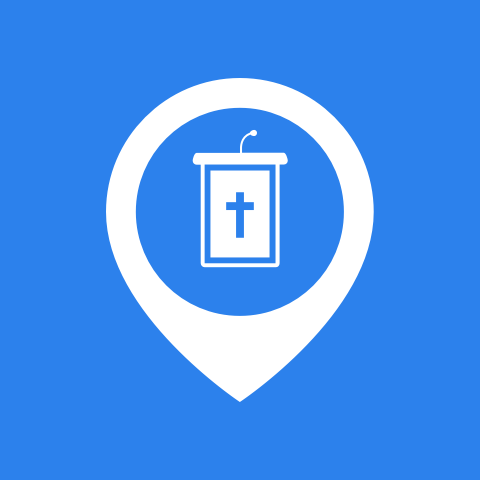
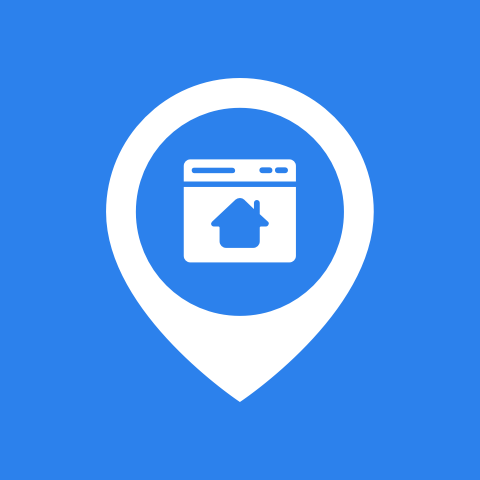
Ready to go

Changed region(s): [[0.375, 0.25, 0.625, 0.5625]]

diff --git a/index.html b/index.html
@@ -1,12 +1,54 @@
 ---
-title: A Free Tool For Managing Church Services
-description: Organize your weekly church services with this weekly tool.
+title: Great websites for regular churches
+description: Free custom websites designed for churches with less than 200 regular attendees.
+features:
+  - feature: Designed to turn website visitors into church guests
+    details: Everything about my themes and designs is intended to get people to visit your church.  Your site won't be just a blog or a business website with a church page tagged on - it will designed from from the ground up to get people in your church.
+  - feature: Unbelieveably easy sermon management
+    details: My themes use Airtable for sermon management, your sound guy will love you and you'll get more of your sermons online.
+  - feature: Google Calendar Integration and Special Event Pages
+    details: Use a Google Calendar to manage your church's public facing calendar, but also have the option of creating awesome event pages for special events.
+  - feature: Ministry pages
+    details: My sites have pages specifically designed to be a home base for your ministries (i.e. youth groups, care ministries, etc.) complete with ministry calendars and photo galleries.
+  - feature: Everything else a church website needs
+    details: Special page templates for church leadership, statement of faith, pastor's blog, and more.
+  - feature: Unhackable and Easy To Update
+    details: Unlike 99% of church websites, the sites I make aren't on Wordpress and were designed to load fast and be super secure.
+pricing_table:
+  - name: Month To Month
+    color: "#3877E0"
+    features:
+      - text: $200 Setup Fee
+        highlight: true
+      - text: $20 Per Month
+        highlight: True
+      - text: Free Domain Name
+        highlight: false
+      - text: Hosting Included
+        highlight: false
+    call_to_action:
+      link: /website-started/
+      text: Get started
+  - name: Better Value
+    color: "#E12844"
+    features:
+      - text: $700 Up Front
+        highlight: true
+      - text: $0 Per Month
+        highlight: True
+      - text: Everything covered for 3 years
+        highlight: false
+      - text: Domain & Hosting
+        highlight: false
+    call_to_action:
+      link: /website-started/
+      text: Get started
 ---
 <section class="hero">
 	<div class="text-container">
-		<h1 class="editable"><strong>Organize Your Church Services</strong></h1>
-		<p class="subtext editable">Plan services, songs, sermons, announcemnents and more.</p>
-		<div class="cta button alt"><a href="/signup/">Get Your Free Tool</a></div>
+		<h1 class="editable"><strong>The Best Website Solution <br><em>For Most Churches</em></strong></h1>
+		<p class="subtext editable">Custom websites designed from the ground up <br>for the needs of churches with less than 200 regular attendees.</p>
+		<div class="cta button alt"><a href="/signup/">Get Yours Today</a></div>
 		<div>
 			<!-- <img src="/images/main_image.png" alt="Screenshot" class="editable" /> -->
 			<iframe width="560" height="315" src="https://www.youtube.com/embed/0rpoDfKNWcQ" frameborder="0" allowfullscreen></iframe>
@@ -15,71 +57,95 @@ description: Organize your weekly church services with this weekly tool.
 </section>
 
 <div class="content">
-	<section>
-		<div class="container flex">
-			<div class="text editable">
-				<h2>Built for <strong>traditional</strong> churches.</h2>
-				<p>If you are the kind of church with fancy lights, a large band and smoke machines - this isn't for you.  This is a tool for churches that still doing traditional services: ie. hymns, a human doing announcements, a choir, etc. </p>
-			</div>
-			<div class="image">
-				<img src="/images/bbc.jpg" alt="Screenshot" class="editable" />
-			</div>
-		</div>
-	</section>
+<div id="themes">
+	<h2>Three Great Themes</h2>
+<p class="subtext">I've designed each of these themes from scratch to be awesome for churches and <strong>I can customize them however you like</strong> as part of the setup process.</p>
 
-	<section>
-		<div class="container flex">
-			<div class="text editable">
-				<h2><strong>Organize </strong>songs, hymns, announcements and sermons.</h2>
-				<p>Keep track of the essential elements of upcoming and past services using this easy to use table.  Easily access past specials, track which hymns you sing how often, etc..  <strong>Collaborate with staff, volunteers and musicians.</strong></p>
-			</div>
-			<div class="image">
-				<img src="/images/hymns.png" alt="Screenshot" class="editable" />
-			</div>
-		</div>
-	</section>
+  <section style="padding-top: 50px;">
+    <div class="container flex">
+      <div class="text editable">
+        <h2><strong>Colorado</strong></h2>
+        <p>This theme is fantastic for smaller churches and church plants. It hides any time related content (blog posts, sermons, etc.) on the home page and only shows them when they are fresh or relevant.</p>
+      </div>
+      <div class="image">
+        <img src="/images/colorado.png" alt="Screenshot" class="screenshot editable" />
+      </div>
+    </div>
+  </section>
+  <section>
+    <div class="container flex">
+      <div class="text editable">
+        <h2><strong>California</strong></h2>
+        <p>This theme is desinged to put the church life of a lively church on display for potential visitors.  It includes a current sermon series widget and featured ministries on the home page.</p>
+      </div>
+      <div class="image">
+        <img src="/images/california.png" alt="Screenshot" class="screenshot editable" />
+      </div>
+    </div>
+  </section>
+  <section style="padding-bottom: 50px;">
+    <div class="container flex">
+      <div class="text editable">
+        <h2><strong>New England</strong></h2>
+        <p>This theme is an all around work horse that works great with a very traditional church.  It features latest blog posts, sermons and upcoming events on the home page.</p>
+      </div>
+      <div class="image">
+        <img src="/images/new-england.png" alt="Screenshot" class="screenshot editable" />
+      </div>
+    </div>
+  </section>
+  </div><!--/#themes-->
+	<section id="features">
+		<h2>All of the Features You Need For Your Church</h2>
+		<p class="subtext">I've worked for years on creating the best website solution for small churches.  Here are some of the features:</p>
+{% if page.features %}
+  <dl class="faq">
+    {% for item in page.features %}
+      <div>
+        <dt>{{ item.feature }}</dt>
+        <dd>{{ item.details }}</dd>
+      </div>
+    {% endfor %}
+  </dl>
+{% endif %}
+	</section><!--/features-->
+	<section id="pricing">
+		<h2>Super easy.  Super Affordable.</h2>
+<p class="subtext">Check out my prices below. Designed to be affordable for small churches.</p>
+<div class="plans">
+	{% for plan in page.pricing_table %}
+		<ul class="plan">
+			<li style="background: {{ plan.color }}">
+				<h3>{{ plan.name }}</h3>
+			</li>
+			{% for feature in plan.features %}
+				<li {% if feature.highlight %} class="highlighted"{% endif %}>{{ feature.text }}</li>
+			{% endfor %}
 
-	<section>
-		<div class="container flex">
-			<div class="text editable">
-				<h2>Quickly generate <strong>printed</strong> orders of service.</h2>
-				<p>We give you an html file that you can save to your desktop, simply click it to open it in a browser, choose your service from a list, and click print.  <strong>Save time every week.</strong></p>
-			</div>
-			<div class="image">
-				<img src="/images/oos.png" alt="Screenshot" class="screenshot editable" />
-			</div>
-		</div>
-	</section>
-	<section>
-		<div class="container flex">
-			<div class="text editable">
-				<h2><strong>Easy</strong> access on any computer, tablet or smartphone.</h2>
-				<p>This tool is built on top of <a href="https://airtable.com/invite/r/MW9nJ7HK">Airtable</a>.  So you get access via a world class interface on any web browser and awesome apps for your phone.</p>
-			</div>
-			<div class="image">
-				<img src="/images/devices.png" alt="Screenshot" class="screenshot editable" />
-			</div>
-		</div>
-	</section>
+			{% if plan.call_to_action %}
+				<li class="pricing-cta"><div class="button"><a style="background: {{ plan.color }}" href="{{ plan.call_to_action.link }}">{{ plan.call_to_action.text }} &rarr;</a></div></li>
+			{% endif %}
+		</ul>
+	{% endfor %}
+</div>
+	</section><!--/#pricing-->
 
 	<section class="testimonial">
 		<div class="container flex">
 			<div class="testimonial-block">
-				<div class="square-image editable"><img src="/images/ryan.jpg" alt="Ryan Hayden"></div>
+				<div class="square-image editable"><img src="/images/bryan.png" alt="Bryan Ries"></div>
 				<blockquote>
-					<p class="editable">I built this tool with the church where I serve as pastor in mind. I was sick of thumbing though a hymn book, guessing how long it's been since we sung that song.  I wanted my Assistant Pastor, pianists, and musicians to be on the same page.
-					<br>
-					I sincerely hope that it is a blessing to your church.
+					<p class="editable">"When I was having issues with my website and needed help and a redesign, Ryan Hayden provided exactly the help I needed....Ryan goes above and beyond to help you know how to keep the site updated on your own. I highly recommend his services."
 					</p>
 					
-					<p class="editable author">Ryan Hayden - Pastor, Bible Baptist Church of Mattoon, IL.</p>
+					<p class="editable author">Bryan Ries - Missionary, Host of the Ministry Connection Podcast.</p>
 				</blockquote>
 			</div>
 		</div>
 	</section>
 
 	<section class="bottom-cta">
-		<h2 class="editable"><strong>Get a better grip</strong><br> on your church services today</h2>
-		<div class="button alt"><a href="/signup/" >Get Your Free Tool</a></div>
+		<h2 class="editable"><strong>You are out of excuses</strong><br> and <em>finally be proud</em> of your church website.</h2>
+		<div class="button alt"><a href="/signup/" >Sign Up Today</a></div>
 	</section>
 </div>

diff --git a/faq.html b/faq.html
@@ -5,16 +5,16 @@ description: Everything you need to know about the simple church planner.
 faq:
   - question: Who is making this?
     answer: My name is Ryan Hayden, I'm a pastor who makes extra money <a href="http://simplechurchtools.com">making websites and custom programs for pastors.</a>
-  - question: Is it really free?
-    answer: Yep. All I ask for is an email address so I can send you occasional information about church websites and other tools. 
-  - question: How will I get it?
-    answer: When you click the <a href="{{site.url}}/signup/index.html">signup button</a>, you'll have to enter your name and email, then I'll send setup information to your email.
-  - question: What are the tech requirements?
-    answer: The program is actually two parts, an <a href="https://airtable.com/invite/r/MW9nJ7HK">Airtable</a> base (which will run in any modern browser and in iOS and Android apps) and a webpage (for printing orders of service) which will work best in Google Chrome.
-  - question: Questions?
-    answer: Contact me for any further questions at <a href="mailto:pastorryanhayden@gmail.com">pastorryanhayden@gmail.com</a>.
-  - question: What if I need it customized or I want some other feature?
-    answer: The standard configuration will work for a lot of churches, but <strong>if you want something different I can tweak it for an hourly fee of $50 with a one hour minumum</strong>.
+  - question: How does billing work?
+    answer: I will send you an invoice from Freshbooks by email.  In the invoice you can setup recurring and automatic billing.  <strong>Invoices must be paid using a credit or debit card. No checks.</strong> 
+  - question: How long does it take?
+    answer: When you sign up, I will send you a document you will fill out with all of your church's information, once I have everything I need, it rarely takes more than a couple of days to get a website up and running.
+  - question: What if I want to add [Fill In The Blank]?
+    answer: Church websites come with easy ways to add sermons, calendar, photo gallery, beliefs, ministries, leadership, etc. as well as easy ways to add general about us pages.  If you want something different (like a store or special content category) I can definitely make it, but I'm going to charge my normal rate ($50 an hour with a one hour minimum) for my time.
+  - question: What if I need support?
+    answer: You will have both my email and my phone number.  Because I built these themes from scratch, I can usually fix things very quickly.  Support is included in the price.
+  - question: Are you hiring?
+    answer: If you are a web developer and want to work with me, please contact me and let me know.
 ---
 
 {% if page.faq %}

diff --git a/signup.html b/signup.html
@@ -1,7 +1,7 @@
 ---
 title: Contact
-heading: Get your free Simple Church Planner
-description: Simply enter your name and email and instructions will be on the way.
+heading: Singup For Your Site
+description: I'm very busy, so sign up before it's too late.
 
 ---
 
@@ -10,7 +10,7 @@ description: Simply enter your name and email and instructions will be on the wa
 <div class="contact-box">
 <form action="{{ site.baseurl }}/signup-success/" method="post" class="contact-form">
 		<input type="hidden" name="_to" value="pastorryanhayden@gmail.com" />
-		<input type="hidden" name="_subject" value="Simple Church Planner - Get Planner" />
+		<input type="hidden" name="_subject" value="Simple Church Sites - Signup" />
 		<input type="text" name="_gotcha" style="display: none;">
 
 		<label for="name">Your Name</label>
@@ -19,10 +19,19 @@ description: Simply enter your name and email and instructions will be on the wa
 		<label for="name">Your Church's Name</label>
 		<input type="text" name="church_name" id="church_name" placeholder="Enter the name of your church..." />
 
+		<label for="name">Where you are located</label>
+		<input type="text" name="located" id="located" placeholder="i.e. Boston, MA..." />
+
 		<label for="email">Your Email Address</label>
 		<input type="email" name="email" id="email" placeholder="Enter your email..." required />
 
-		<input type="submit" value="Get Your Free Tool" />
+		<label for="email">Your Phone</label>
+		<input type="tel" name="tel" id="tel" placeholder="Enter your phone..." required />
+
+		<label for="name">Best Time To Reach You</label>
+		<input type="text" name="best_time" id="best_time" placeholder="i.e. Afternoons..." />
+
+		<input type="submit" value="Let's Make This Happen!" />
 	</form>
 </div>
 

diff --git a/_sass/home.sass b/_sass/home.sass
@@ -1,0 +1,9 @@
+div#themes, section#pricing, section#features
+	width: 80%
+	max-width: 1200px
+	margin-left: auto
+	margin-right: auto
+	padding-top: 50px
+	h2
+		text-align: center
+		font-weight: 800

diff --git a/css/screen.scss b/css/screen.scss
@@ -14,3 +14,4 @@
 @import "navigation";
 @import "footer";
 @import "cloudcannon";
+@import "home";

diff --git a/signup-success.md b/signup-success.md
@@ -1,64 +1,6 @@
 ---
 title: Access
-heading: Here is Your Access
-description: Follow the instructions on this page to get setup.
+heading: Awesome!
+description: I look forward to working with you, I will be in touch soon.
 ---
-<hr>
 
-# There are five steps to setting up the Simple Church Planner
-### Don't worry, they'll only take a minute.
-
-Follow these steps explained in the video above and the text below:
-
-### Step One - Sign Up For An Airtable Account
-
-<img src="{{ site.url }}/images/steps/1signup.png" alt="" class="center">
-
-Click [this link](https://airtable.com/invite/r/MW9nJ7HK) to sign up for a free Airtable account if you don't already have one. 
-
-### Step Two - Copy Our Template Base Into Your Account
-
-<img src="{{ site.url }}/images/steps/9copybase.png" alt="" class="center">
-
-Click on [this link](https://airtable.com/shreXBDXQHJCMOHuM) and click the large "copy base" button.
-
-### Step Three - Find and write down your Airtable API Key and the base APP ID.
-
-<img src="{{ site.url }}/images/steps/2clickicon.png" alt="" class="stack">
-<img src="{{ site.url }}/images/steps/3account.png" alt="" class="stack">
-<img src="{{ site.url }}/images/steps/4apikey.png" alt="" class="stack">
-
-**You'll find your API key** by 1) clicking on your user avitar and  2) clicking Account info.  You should either see your API key at the bottom of the page or see the option to create one.
-
-
-
-<img src="{{ site.url }}/images/steps/5help.png" alt="" class="stack">
-<img src="{{ site.url }}/images/steps/6apidocs.png" alt="" class="stack">
-<img src="{{ site.url }}/images/steps/7service_planner.png" alt="" class="stack">
-<img src="{{ site.url }}/images/steps/8appid.png" alt="" class="center">
-
-**Find your bases APP ID** by clicking on the little question icon and then selecting "API documentation."  Now, look at the URL bar - your APP Id is the glob right after "airtable.com/" and before the next "/."  It should look something like this: `app0OkBvB0JJuNqKk`
-
-
-### Step Four - Start entering your information.
-
-You can start planning your services right away.  This video will explain how it all works:
-
-<iframe width="560" height="315" src="https://www.youtube.com/embed/0rpoDfKNWcQ" frameborder="0" allowfullscreen></iframe>
-
-You can import hymnal indexes.  Right now we have these you can download:
-
-* Rejoice Hymns by Majesty Music
-* Crown Hymns by Crown Christian Publications
-* Bible Truth Hymns by Bible Truth Music
-* Living Hymns by Striving Together Publications
-
-If you have another hymnal you need, we can get it entered for a small fee.
-
-### Step Five - Download your Order of Service generator file, open it and enter your API key and APP ID.
-
-Download [this file](#). (It may open in another tab and you'll have to select FILE > SAVE.) 
-
-Be sure to save the file somewhere where you will remember it.  Then open the file in Google Chrome.  You'll be asked to enter your API Key and AppID.  (You should only have to do this once but save them just in case.)  
-
-Now you should see a list of all of your upcoming services.  Just click on one and click FILE > PRINT.  Make sure your print as landscape.
